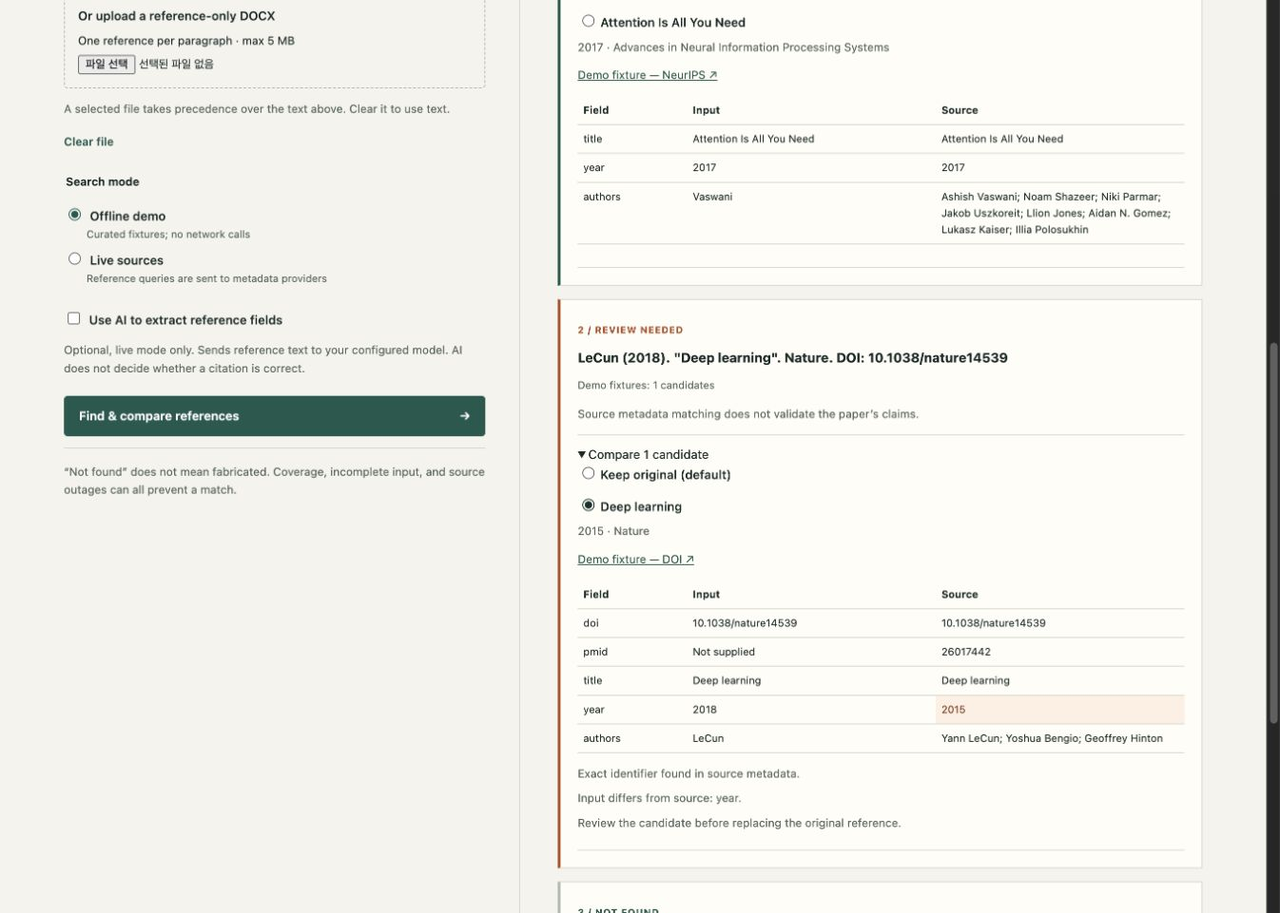
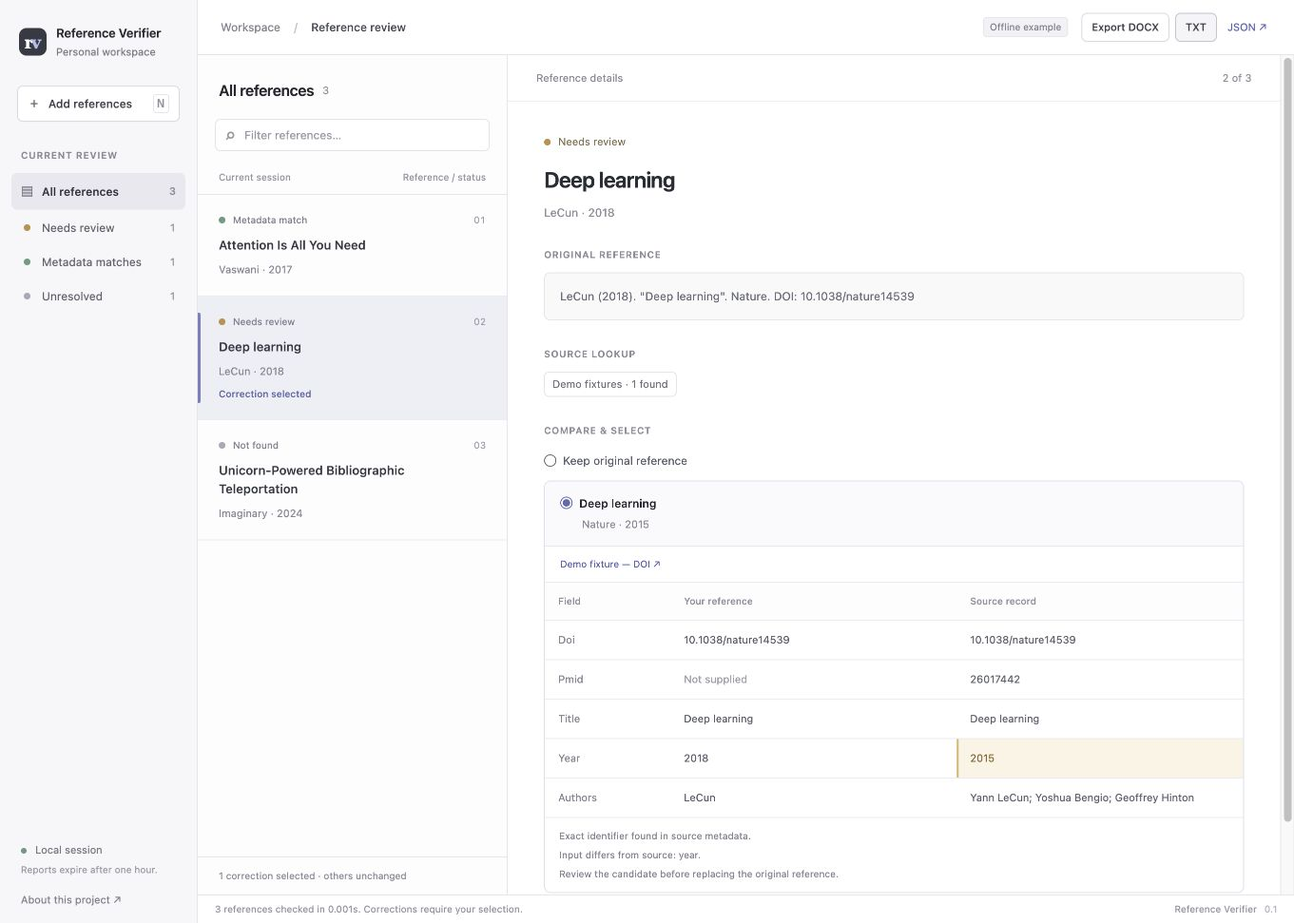
Redesign inherited reference workflow as a light visual review workspace
Continue the earlier infolumi-reference-search project with a three-pane review UI, status filters, and focused metadata comparison. Clarify the retained project history and distinguish the previous retrieval extensions from this visual refresh.

diff --git a/reference_verifier/web/style.css b/reference_verifier/web/style.css
@@ -1,1 +1,1 @@
-:root{--ink:#172f2c;--muted:#61716a;--paper:#f6f5ef;--line:#d9ded4;--accent:#1b6557;--orange:#b95932}*{box-sizing:border-box}body{margin:0;background:var(--paper);color:var(--ink);font-family:system-ui,-apple-system,BlinkMacSystemFont,"Segoe UI",sans-serif;font-size:15px;line-height:1.6}header,main,footer{max-width:1420px;margin:auto;padding:24px 5vw}header{display:flex;justify-content:space-between;align-items:center;border-bottom:1px solid var(--line)}a{color:var(--accent)}.brand{display:flex;gap:14px;align-items:center;font-weight:650;text-decoration:none}.mark{background:var(--ink);color:white;padding:5px 12px;font-family:Georgia,serif;font-size:22px}.tag,.eyebrow,.steps{font-size:11px;letter-spacing:.09em;text-transform:uppercase}.tag{padding:5px 10px;border:1px solid var(--line);border-radius:3px}.hero{padding:34px 0 36px}.eyebrow{color:var(--accent);font-weight:650}h1{font-family:Georgia,serif;font-weight:400;font-size:clamp(38px,4.6vw,66px);line-height:1.07;letter-spacing:-.04em;margin:18px 0}.intro{max-width:680px;color:var(--muted);font-size:17px}.steps{display:flex;gap:30px;margin-top:28px;color:var(--muted)}.workspace{display:grid;grid-template-columns:minmax(300px,.85fr) minmax(400px,1.2fr);border-top:1px solid var(--line);gap:40px}.input-panel,.results-panel{padding-top:20px}.input-panel{border-right:1px solid var(--line);padding-right:36px}.section-heading{display:flex;justify-content:space-between;align-items:center;gap:12px;margin-bottom:18px}h2{font-size:18px;font-weight:600;margin:0}h3{line-height:1.35}label{display:block;font-size:13px;font-weight:550}textarea{margin:8px 0 16px;width:100%;resize:vertical;border:1px solid #b6c4b8;background:#fffdf8;border-radius:5px;padding:15px;font:14px/1.65 system-ui;color:var(--ink)}button{font:inherit;font-size:13px;font-weight:600;border:1px solid #bdc8be;border-radius:4px;background:transparent;color:var(--ink);padding:10px 15px;cursor:pointer}.primary{background:var(--accent);color:white;border-color:var(--accent)}button:disabled{opacity:.5;cursor:wait}button:focus-visible,a:focus-visible,input:focus-visible,textarea:focus-visible{outline:3px solid #b95932;outline-offset:3px}.text-button{padding:0;border:0;color:var(--accent);font-size:12px}.upload{padding:14px;border:1px dashed #b6c4b8;border-radius:4px}.upload span,.upload input{display:block;font-weight:400;font-size:12px;margin-top:6px}.muted,.footnote{font-size:12px;color:var(--muted)}fieldset{margin:22px 0 16px;border:0;padding:0}legend{font-size:12px;font-weight:650;margin-bottom:8px}.radio{margin:8px 0}.radio small{display:block;padding-left:24px;font-weight:400;color:var(--muted)}input[type=radio],input[type=checkbox]{accent-color:var(--accent);margin-right:6px}.ai{margin-top:14px}#check{display:flex;justify-content:space-between;width:100%;margin-top:20px}.footnote{border-top:1px solid var(--line);padding-top:15px}.empty{border:1px solid var(--line);padding:46px 30px;margin-top:20px;text-align:center;color:var(--muted)}.large-mark{font-family:Georgia,serif;font-size:54px;color:var(--accent)}#feedback{font-size:13px;color:var(--muted)}.summary{display:flex;gap:8px;flex-wrap:wrap;margin-bottom:20px}.summary span{font-size:12px;padding:5px 9px;background:#e7ece2;border-radius:3px}.result{background:#fffdf8;border:1px solid var(--line);border-left:3px solid #b7c2b5;margin:14px 0;padding:18px}.result.matched{border-left-color:var(--accent)}.result.needs_review{border-left-color:var(--orange)}.result h3{font-size:14px;margin:10px 0;overflow-wrap:anywhere}.badge{font-size:10px;text-transform:uppercase;letter-spacing:.07em;color:var(--accent);font-weight:700}.result.needs_review .badge{color:var(--orange)}.source-status{font-size:11px;color:var(--muted)}details{border-top:1px solid var(--line);margin-top:12px;padding-top:10px}summary{font-size:13px;cursor:pointer}.candidate{padding:12px 0;border-bottom:1px solid var(--line)}.candidate>label{line-height:1.45}.candidate a{font-size:12px;margin-right:12px}.candidate p{font-size:12px;margin:7px 0;color:var(--muted)}table{border-collapse:collapse;font-size:11px;width:100%;margin:12px 0;table-layout:fixed}td,th{text-align:left;border-bottom:1px solid var(--line);padding:6px;overflow-wrap:anywhere;vertical-align:top}th:first-child{width:18%}td.different{background:#fff0e6;color:#8c3c20}#exports{padding:18px 0;border-top:1px solid var(--line)}.export-actions{display:flex;align-items:center;gap:12px;flex-wrap:wrap}.export-actions a{font-size:12px}footer{display:flex;justify-content:space-between;border-top:1px solid var(--line);margin-top:38px;font-size:11px;color:var(--muted)}[hidden]{display:none!important}@media(max-width:800px){.workspace{grid-template-columns:1fr;gap:20px}.input-panel{border-right:0;padding-right:0}.hero{padding-top:20px}.steps{gap:12px;font-size:9px}header .tag{display:none}footer{gap:20px}.results-panel{border-top:1px solid var(--line)}}
+:root{color-scheme:light;--ink:#292b31;--muted:#82848c;--line:#e9e9ed;--accent:#6069b8;--soft:#f0f0f9;--sidebar:#f8f8fa;--amber:#a46d20;--green:#37846c}*{box-sizing:border-box}body{margin:0;font:13px/1.5 -apple-system,BlinkMacSystemFont,"Segoe UI",sans-serif;color:var(--ink);background:white}button,input,textarea{font:inherit}button,a,input,textarea{ -webkit-tap-highlight-color:transparent}button{cursor:pointer;border:1px solid #dddfe5;border-radius:6px;background:white;color:#454750;padding:6px 10px;font-weight:500;box-shadow:0 1px 2px #25253505}button:hover{background:#f6f6f9;border-color:#c9cbd5}button:disabled{opacity:.5;cursor:wait}button:focus-visible,a:focus-visible,input:focus-visible,textarea:focus-visible,summary:focus-visible{outline:2px solid #7d83cc;outline-offset:3px}a{color:var(--accent);text-decoration:none}a:hover{text-decoration:underline}h1,h2,h3,p{margin:0}h1{font-size:16px;font-weight:600;letter-spacing:-.35px}h2{font-size:20px;font-weight:600;letter-spacing:-.5px}.app-shell{display:grid;grid-template-columns:208px minmax(0,1fr);height:100dvh;min-height:520px}.sidebar{background:var(--sidebar);border-right:1px solid var(--line);padding:25px 12px 16px;display:flex;flex-direction:column}.brand{display:flex;align-items:center;gap:10px;padding:0 8px;color:var(--ink);font-size:13px;font-weight:600;letter-spacing:-.2px}.brand:hover{text-decoration:none}.brand small{display:block;color:var(--muted);font-weight:400;font-size:11px;letter-spacing:0;margin-top:2px}.brand-icon{display:flex;align-items:center;justify-content:center;width:29px;height:29px;background:#3e424d;border-radius:8px;color:#fff;font-family:Georgia,serif;font-size:19px;letter-spacing:-3px;padding-right:3px}.brand-icon span{color:#bfc4f0}.new-list{display:flex;align-items:center;gap:8px;margin:27px 6px 28px;text-align:left;font-size:12px}.new-list>span{font-size:16px;color:#7a7d87}kbd{margin-left:auto;font:10px inherit;color:#989aa3;border:1px solid var(--line);border-radius:3px;padding:0 4px}.nav-caption{font-size:10px;letter-spacing:.07em;color:#94969f;font-weight:600;margin:0 10px 9px}.nav-item{width:100%;display:flex;align-items:center;gap:9px;background:none;border:0;box-shadow:none;padding:8px 10px;text-align:left;font-size:12px;margin:2px 0;color:#686b76;font-weight:400}.nav-item.active{background:#ebebf1;color:#353841;font-weight:550}.nav-item:hover{background:#eeeef3}.nav-count{margin-left:auto;font-size:11px;font-variant-numeric:tabular-nums;color:#9698a1}.nav-symbol{font-size:15px;width:13px;color:#6f7280}.status-dot{width:7px;height:7px;border-radius:50%;display:inline-block;flex:none;background:#b5b7c0}.nav-item .status-dot{margin:0 3px}.status-dot.needs_review{background:#c59b55}.status-dot.matched{background:#72a68f}.status-dot.unresolved,.status-dot.not_found,.status-dot.incomplete_search{background:#b0b3be}.sidebar-bottom{margin-top:auto;padding:20px 10px 0;color:#7f828c;font-size:11px}.local-dot{display:inline-block;width:6px;height:6px;background:#78a18c;border-radius:50%;margin-right:6px}.sidebar-bottom small{display:block;margin:5px 0 16px;font-size:10px;color:#a1a2aa}.sidebar-bottom a{color:#888a94}.main-shell{display:flex;flex-direction:column;min-width:0;min-height:0}.toolbar{height:58px;flex-shrink:0;display:flex;align-items:center;border-bottom:1px solid var(--line);padding:0 24px;gap:14px}.breadcrumb{font-size:12px;color:#8b8d96;white-space:nowrap}.breadcrumb span{margin:0 11px;color:#c5c6cc}.breadcrumb strong{font-weight:500;color:#525560}.mode-tag{font-size:10px;background:#f4f4f7;border:1px solid #e9e9ee;padding:2px 6px;border-radius:4px;color:#8a8c97;margin-left:auto;white-space:nowrap}#exports{display:flex;align-items:center;gap:6px}#exports button,#exports a{font-size:11px}#exports a{padding:5px}.review-workspace{display:grid;grid-template-columns:326px minmax(0,1fr);flex:1;min-height:0}.list-panel{border-right:1px solid var(--line);display:flex;flex-direction:column;min-height:0;background:#fdfdfe}.list-heading{display:flex;align-items:center;padding:25px 22px 18px;gap:9px}#list-total{font-size:11px;color:#9b9da6}.search-wrap{display:flex;align-items:center;margin:0 18px 20px;gap:7px;padding:5px 9px;border:1px solid #e6e7ec;border-radius:6px;background:#fff;color:#a1a3ac}.search-wrap span{font-size:20px;line-height:1}#search{background:none;border:0;outline-offset:5px;min-width:0;width:100%;font-size:12px;padding:2px}#search::placeholder{color:#a2a4ad}.list-subheading{padding:0 22px 10px;display:flex;justify-content:space-between;font-size:10px;color:#9b9da7;border-bottom:1px solid var(--line)}#reference-list{overflow:auto;flex:1}.reference-row{display:block;text-align:left;width:100%;border:0;border-radius:0;box-shadow:none;border-bottom:1px solid #eeeeF2;padding:19px 22px;background:transparent;position:relative}.reference-row:hover{background:#f7f7fa}.reference-row.selected{background:#f0f0f7}.reference-row.selected:before{position:absolute;content:"";left:0;top:17px;bottom:17px;width:3px;background:#858bc7;border-radius:0 2px 2px 0}.row-top{display:flex;gap:8px;align-items:center;margin-bottom:9px;font-size:10px;color:#858895;font-weight:400}.row-top .row-num{margin-left:auto;color:#a8a9b1;font-variant-numeric:tabular-nums}.row-title{font-size:13px;line-height:1.5;font-weight:550;color:#3d404b;display:-webkit-box;-webkit-line-clamp:3;-webkit-box-orient:vertical;overflow:hidden}.row-meta{margin-top:8px;font-size:11px;color:#8f919b;font-weight:400}.row-selected{font-size:10px;margin-top:8px;color:#656eae}.list-empty{padding:32px 23px;color:#a0a2ad;font-size:12px}.list-footer{padding:12px 22px;border-top:1px solid var(--line);font-size:10px;color:#91939e}.detail-panel{overflow:auto;min-width:0}.detail-toolbar{height:49px;border-bottom:1px solid #f0f0f3;display:flex;align-items:center;justify-content:space-between;padding:0 30px;color:#9597a1;font-size:11px}#position{font-variant-numeric:tabular-nums}.detail-content{max-width:890px;margin:auto;padding:34px 38px 45px}.detail-status{display:flex;align-items:center;gap:8px;font-size:11px;color:#8c7b5a;margin-bottom:16px}.detail-title{font-size:23px;line-height:1.35;letter-spacing:-.55px;color:#30333d;font-weight:600;overflow-wrap:anywhere}.detail-meta{color:#9699a3;font-size:12px;margin-top:10px}.section-label{font-size:10px;letter-spacing:.06em;font-weight:600;color:#9698a2;margin:28px 0 11px}.original{padding:14px 16px;border:1px solid #e9e9ee;border-radius:6px;background:#fafafb;color:#747783;font-size:12px;line-height:1.7;overflow-wrap:anywhere}.sources{display:flex;gap:8px;flex-wrap:wrap}.source-pill{font-size:11px;border:1px solid #e7e8ed;border-radius:5px;padding:4px 8px;color:#787d88}.source-pill.unavailable{color:#a16d31;background:#fcf7ef}.candidate{border:1px solid #e3e4ec;border-radius:7px;margin-top:12px;overflow:hidden}.candidate-heading{background:#fbfbfd;padding:14px 16px;border-bottom:1px solid #e9e9f0}.candidate-heading label{font-size:12px;font-weight:550;display:flex;gap:7px;align-items:flex-start}.candidate-heading p{font-size:11px;color:#9395a1;margin:5px 0 0 23px}.source-links{display:flex;flex-wrap:wrap;gap:12px;padding:11px 16px;border-bottom:1px solid #ededf2;font-size:10px}.table-scroll{overflow:auto}table{width:100%;table-layout:fixed;border-collapse:collapse;font-size:11px}th{font-size:10px;font-weight:500;color:#979aa5;background:#fdfdfe}th,td{padding:12px 14px;text-align:left;vertical-align:top;border-bottom:1px solid #eeeef3;overflow-wrap:anywhere}th:first-child{width:18%}td:first-child{color:#8c8f9b;text-transform:capitalize}td{color:#626672}td.different{background:#fcf5e9;color:#916c2f;box-shadow:inset 2px 0 #dfbc79}td.missing{color:#a5a7b0}.candidate-notes{padding:11px 15px;color:#8c8f9a;font-size:10px;line-height:1.6}.candidate-notes p+p{margin-top:4px}.keep-original{display:flex;align-items:center;gap:7px;font-size:12px;color:#656977;margin:15px 0 8px}.review-note{font-size:11px;color:#9a9ca6;line-height:1.7;margin-top:18px}.unresolved-note{margin-top:20px;border:1px solid #e7e8ed;border-radius:6px;padding:18px;color:#81848f;font-size:12px}.statusbar{height:30px;flex-shrink:0;display:flex;justify-content:space-between;align-items:center;padding:0 18px;border-top:1px solid var(--line);font-size:10px;color:#9b9da7;gap:20px}#feedback{overflow:hidden;white-space:nowrap;text-overflow:ellipsis}.version{color:#b8bac2;margin-left:5px}.welcome{max-width:430px;margin:110px auto;padding:0 30px;text-align:center}.document-icon{border:1px solid #e0e2eb;border-radius:8px;width:40px;height:47px;font-size:28px;margin:0 auto 25px;color:#a7abc2;background:#fafafd;line-height:43px}.welcome h2{font-size:19px}.welcome p{font-size:12px;color:#9598a4;line-height:1.8;margin:12px 0 23px}.welcome-actions{display:flex;justify-content:center;gap:8px}.welcome .small-note{font-size:10px;color:#b0b2bc}.primary{background:#656db3;border-color:#6068aa;color:#fff}.primary:hover{background:#585fa5;border-color:#51599e}input[type=radio],input[type=checkbox]{accent-color:#6d75b6;margin:2px 0;flex:none}dialog{width:min(580px,calc(100vw - 32px));border:1px solid #dbdde7;border-radius:12px;padding:0;color:var(--ink);box-shadow:0 24px 100px #20243a25}dialog::backdrop{background:#24293a30;backdrop-filter:blur(2px)}.dialog-heading{display:flex;justify-content:space-between;padding:25px 26px 18px}.dialog-heading h2{font-size:18px}.dialog-heading p{font-size:12px;color:#9699a4;margin-top:5px}.icon-button{border:0;background:none;box-shadow:none;font-size:23px;color:#9598a2;align-self:flex-start;padding:0 3px}form{padding:0 26px}form>label{font-size:12px;color:#666a77;display:block}.label-hint{float:right;color:#a6a8b2;font-size:10px}textarea{width:100%;resize:vertical;margin:8px 0 12px;padding:12px;border:1px solid #dfe1e9;border-radius:6px;font-size:12px;line-height:1.6;color:#585c6b;background:#fdfdfe}.upload-row{display:flex;align-items:center;justify-content:space-between;font-size:11px}.upload-row input{display:block;margin-top:6px;font-size:10px;max-width:100%}.text-button{border:0;box-shadow:none;background:none;font-size:10px;color:#8388ad}.muted{color:#a0a2ad;font-size:10px;margin:7px 0 14px;line-height:1.5}fieldset{border:0;border-top:1px solid var(--line);padding:12px 0;margin:18px 0 6px;display:flex;gap:20px}legend{font-size:11px;color:#767a88;padding-right:8px}.radio{font-size:11px}.radio small{font-size:10px;display:block;color:#a0a3ae;margin:4px 0 0 17px}.ai{display:flex;align-items:center;gap:7px;font-size:11px}.dialog-footer{margin:20px -26px 0;padding:15px 26px;border-top:1px solid var(--line);display:flex;align-items:center;justify-content:space-between;background:#fafafb}.dialog-footer span{font-size:10px;color:#a0a3ae}#import-error{font-size:12px;color:#a34b44}[hidden]{display:none!important}@media(min-width:1500px){.review-workspace{grid-template-columns:370px minmax(0,1fr)}.detail-content{padding-top:44px}}@media(max-width:1100px){.app-shell{grid-template-columns:180px minmax(0,1fr)}.review-workspace{grid-template-columns:270px minmax(0,1fr)}.detail-content{padding:25px 22px}.toolbar{padding:0 16px}.brand{font-size:11px;gap:7px}.breadcrumb{font-size:11px}}@media(max-width:800px){.app-shell{display:block;height:auto;min-height:100dvh}.sidebar{padding:14px;display:block;border-right:0;border-bottom:1px solid var(--line)}.brand{font-size:13px}.brand small,.sidebar-bottom,.nav-caption,kbd{display:none}.new-list{position:absolute;right:14px;top:14px;margin:0}.sidebar nav{display:flex;margin-top:15px;overflow:auto}.nav-item{width:auto;white-space:nowrap;padding:6px 9px}.nav-count{margin-left:3px}.main-shell{min-height:80dvh}.toolbar{height:auto;min-height:54px;flex-wrap:wrap;padding:10px 14px;gap:8px}.breadcrumb{margin-right:auto}.mode-tag{margin:0}.review-workspace{display:block}.list-panel{border-right:0;border-bottom:1px solid var(--line)}.list-heading{padding:16px 18px 12px}.search-wrap{margin-bottom:12px}.list-subheading{display:none}#reference-list{max-height:250px}.reference-row{padding:12px 20px}.row-top{margin-bottom:4px}.row-meta{margin-top:4px}.row-title{-webkit-line-clamp:2}.detail-content{padding:24px 20px}.detail-toolbar{padding:0 20px}.statusbar{margin-top:auto}.statusbar>span:last-child{display:none}.welcome{margin:55px auto}.detail-title{font-size:21px}fieldset{flex-direction:column;gap:10px}}

diff --git a/reference_verifier/web/app.js b/reference_verifier/web/app.js
@@ -1,37 +1,61 @@
 const $ = id => document.getElementById(id);
-let report = null;
+let report = null, activeIndex = null, filter = 'all', busy = false;
 const choices = {};
-const labels = {matched:'Metadata match',needs_review:'Review needed',not_found:'Not found',incomplete_search:'Search incomplete'};
+const labels = {matched:'Metadata match',needs_review:'Needs review',not_found:'Not found',incomplete_search:'Search incomplete'};
 function el(tag,text,cls){const n=document.createElement(tag);if(text!==undefined)n.textContent=text;if(cls)n.className=cls;return n;}
-function count(){ $('selection-count').textContent=`${Object.keys(choices).length} corrections selected. Other entries stay unchanged.`; }
 function safeLink(url,label){try{const u=new URL(url);if(u.protocol!=='https:')return el('span',label);const a=el('a',label);a.href=u.href;a.target='_blank';a.rel='noopener noreferrer';return a;}catch{return el('span',label);}}
-function render(data){
-  report=data;for(const k of Object.keys(choices))delete choices[k];count();$('results').replaceChildren();$('summary').replaceChildren();
-  $('mode-tag').textContent=data.mode==='demo'?'Offline fixtures':'Live metadata';
-  for(const [key,n] of Object.entries(data.summary))if(n)$('summary').append(el('span',`${n} ${labels[key]}`));
-  for(const row of data.results){
-    const card=el('article',undefined,`result ${row.status}`);card.append(el('span',`${row.index+1} / ${labels[row.status]}`,'badge'),el('h3',row.input.raw));
-    card.append(el('p',row.sources.map(s=>`${s.name}: ${s.state==='ok'?`${s.count} candidates`:'unavailable'}`).join(' · '),'source-status'));
-    for(const w of row.input.warnings)card.append(el('p',w,'muted'));
-    card.append(el('p',row.note,'muted'));
-    if(row.candidates.length){
-      const details=el('details');details.open=true;details.append(el('summary',`Compare ${row.candidates.length} candidate${row.candidates.length===1?'':'s'}`));
-      const keep=el('label','Keep original (default)');const none=el('input');none.type='radio';none.name=`row-${row.index}`;none.checked=true;none.onchange=()=>{delete choices[row.index];count();};keep.prepend(none);details.append(keep);
-      for(const candidate of row.candidates){const c=el('div',undefined,'candidate');const lab=el('label',candidate.record.title);const radio=el('input');radio.type='radio';radio.name=`row-${row.index}`;radio.onchange=()=>{choices[row.index]=candidate.id;count();};lab.prepend(radio);c.append(lab);
-        c.append(el('p',`${candidate.record.year||'Year unavailable'} · ${candidate.record.venue||'Venue unavailable'}`));
-        for(const s of candidate.record.sources)c.append(safeLink(s.url,s.name+' ↗'));
-        const table=el('table');const head=el('tr');for(const t of ['Field','Input','Source'])head.append(el('th',t));const thead=el('thead');thead.append(head);table.append(thead);const body=el('tbody');
-        for(const d of candidate.differences){if(d.state==='not_supplied'&&!d.candidate)continue;const tr=el('tr');tr.append(el('td',d.field),el('td',d.input||'Not supplied'),el('td',d.candidate||'Unavailable',d.state==='different'?'different':''));body.append(tr);}table.append(body);c.append(table);
-        for(const reason of [...candidate.reasons,...candidate.record.conflicts])c.append(el('p',reason));details.append(c);
-      }card.append(details);
-    }$('results').append(card);
-  }
-  $('exports').hidden=false;$('report').href=`/api/report/${data.id}`;$('feedback').textContent=`Checked ${data.results.length} references in ${data.elapsed_seconds}s. Review and explicitly select any corrections.`;
+function count(){const n=Object.keys(choices).length;$('selection-count').textContent=`${n} correction${n===1?'':'s'} selected · others unchanged`;}
+function filteredRows(){const query=$('search').value.trim().toLowerCase();return (report?.results||[]).filter(row=>(filter==='all'||row.status===filter||(filter==='unresolved'&&['not_found','incomplete_search'].includes(row.status)))&&row.input.raw.toLowerCase().includes(query));}
+function renderList(){
+ const rows=filteredRows();$('reference-list').replaceChildren();$('list-total').textContent=rows.length;
+ if(!rows.some(r=>r.index===activeIndex))activeIndex=rows[0]?.index??null;
+ for(const row of rows){
+  const b=el('button',undefined,'reference-row'+(row.index===activeIndex?' selected':''));b.type='button';b.setAttribute('aria-pressed',String(row.index===activeIndex));
+  const top=el('div',undefined,'row-top');top.append(el('span',undefined,'status-dot '+row.status),el('span',labels[row.status]),el('span',String(row.index+1).padStart(2,'0'),'row-num'));
+  b.append(top,el('div',row.input.title||row.input.raw,'row-title'),el('div',[row.input.authors.join(', '),row.input.year].filter(Boolean).join(' · ')||'Bibliographic details unavailable','row-meta'));
+  if(choices[row.index]!==undefined)b.append(el('div','Correction selected','row-selected'));
+  b.onclick=()=>{activeIndex=row.index;renderList();renderDetail();};$('reference-list').append(b);
+ }
+ if(!rows.length)$('reference-list').append(el('div','No references in this view.','list-empty'));
 }
-$('sample').onclick=async()=>{try{const r=await fetch('/api/demo');$('references').value=(await r.json()).text;$('file').value='';}catch{$('feedback').textContent='Could not load example.';}};
+function renderDetail(){
+ const row=report?.results.find(r=>r.index===activeIndex);$('results').replaceChildren();$('position').textContent=row?`${row.index+1} of ${report.results.length}`:'';
+ if(!row){$('results').append(el('div','Select a reference from the list to inspect its metadata.','list-empty'));return;}
+ const page=el('article',undefined,'detail-content');const badge=el('div',undefined,'detail-status');badge.append(el('span',undefined,'status-dot '+row.status),el('span',labels[row.status]));
+ page.append(badge,el('h2',row.input.title||'Untitled reference','detail-title'),el('p',[row.input.authors.join(', '),row.input.year].filter(Boolean).join(' · ')||'Review the original reference below.','detail-meta'));
+ page.append(el('h3','ORIGINAL REFERENCE','section-label'),el('p',row.input.raw,'original'),el('h3','SOURCE LOOKUP','section-label'));
+ const sources=el('div',undefined,'sources');for(const s of row.sources)sources.append(el('span',`${s.name} · ${s.state==='ok'?s.count+' found':'unavailable'}`,'source-pill '+s.state));page.append(sources);
+ for(const warning of row.input.warnings)page.append(el('p',warning,'review-note'));
+ if(row.candidates.length){
+  page.append(el('h3','COMPARE & SELECT','section-label'));
+  const keep=el('label',undefined,'keep-original');const none=el('input');none.type='radio';none.name=`row-${row.index}`;none.checked=choices[row.index]===undefined;none.onchange=()=>{delete choices[row.index];count();renderList();};keep.append(none,el('span','Keep original reference'));page.append(keep);
+  for(const candidate of row.candidates){
+   const c=el('div',undefined,'candidate'),heading=el('div',undefined,'candidate-heading'),label=el('label'),radio=el('input');radio.type='radio';radio.name=`row-${row.index}`;radio.checked=choices[row.index]===candidate.id;radio.onchange=()=>{choices[row.index]=candidate.id;count();renderList();};label.append(radio,el('span',candidate.record.title));heading.append(label,el('p',[candidate.record.venue,candidate.record.year].filter(Boolean).join(' · ')));c.append(heading);
+   const links=el('div',undefined,'source-links');for(const s of candidate.record.sources)links.append(safeLink(s.url,s.name+' ↗'));c.append(links);
+   const wrap=el('div',undefined,'table-scroll'),table=el('table'),thead=el('thead'),head=el('tr');for(const t of ['Field','Your reference','Source record'])head.append(el('th',t));thead.append(head);table.append(thead);const body=el('tbody');
+   for(const d of candidate.differences){if(d.state==='not_supplied'&&!d.candidate)continue;const tr=el('tr');tr.append(el('td',d.field),el('td',d.input||'Not supplied',d.input?'':'missing'),el('td',d.candidate||'Unavailable',d.state==='different'?'different':d.candidate?'':'missing'));body.append(tr);}table.append(body);wrap.append(table);c.append(wrap);
+   const notes=el('div',undefined,'candidate-notes');for(const reason of [...candidate.reasons,...candidate.record.conflicts])notes.append(el('p',reason));c.append(notes);page.append(c);
+  }
+ }else page.append(el('p','No candidate is available to compare. Try a fuller title or a DOI, or retry live lookup if a source is unavailable.','unresolved-note'));
+ page.append(el('p',row.note,'review-note'));$('results').append(page);
+}
+function render(data){
+ report=data;for(const k of Object.keys(choices))delete choices[k];activeIndex=data.results.find(r=>r.status==='needs_review')?.index??data.results[0]?.index;filter='all';$('search').value='';
+ $('count-all').textContent=data.results.length;for(const key of ['matched','needs_review'])$('count-'+key).textContent=data.summary[key];$('count-unresolved').textContent=data.summary.not_found+data.summary.incomplete_search;
+ $('mode-tag').textContent=data.mode==='demo'?'Offline example':'Live metadata';$('exports').hidden=false;$('report').href=`/api/report/${data.id}`;
+ setFilter('all');count();$('feedback').textContent=`${data.results.length} references checked in ${data.elapsed_seconds}s. Corrections require your selection.`;
+}
+function setFilter(value){filter=value;const names={all:'All references',needs_review:'Needs review',matched:'Metadata matches',unresolved:'Unresolved'};$('list-title').textContent=names[value];document.querySelectorAll('[data-filter]').forEach(b=>{b.classList.toggle('active',b.dataset.filter===value);b.setAttribute('aria-pressed',String(b.dataset.filter===value));});renderList();renderDetail();}
+function openImport(){if(!$('import-dialog').open)$('import-dialog').showModal();}
+$('new-list').onclick=openImport;$('start').onclick=openImport;$('close-dialog').onclick=()=>$('import-dialog').close();
+$('search').oninput=()=>{renderList();renderDetail();};document.querySelectorAll('[data-filter]').forEach(b=>b.onclick=()=>setFilter(b.dataset.filter));
+document.addEventListener('keydown',e=>{if(e.key.toLowerCase()==='n'&&!e.ctrlKey&&!e.metaKey&&!e.altKey&&!['INPUT','TEXTAREA','SELECT'].includes(document.activeElement.tagName)&&!$('import-dialog').open){e.preventDefault();openImport();}});
+$('sample').onclick=async()=>{try{const r=await fetch('/api/demo');if(!r.ok)throw new Error('Could not load example.');$('references').value=(await r.json()).text;$('file').value='';document.querySelector('input[name="mode"][value="demo"]').checked=true;$('ai').checked=false;await runCheck();}catch(err){$('feedback').textContent=err.message;}};
 $('clear-file').onclick=()=>{$('file').value='';};
-$('check-form').onsubmit=async e=>{e.preventDefault();$('check').disabled=true;$('exports').hidden=true;report=null;$('feedback').textContent='Looking up sources… Live lookups may take a minute or more for a list. Provider failures will be shown.';
-  try{const form=new FormData(e.target);form.set('ai',$('ai').checked?'true':'false');const response=await fetch('/api/check',{method:'POST',body:form});const data=await response.json();if(!response.ok)throw new Error(typeof data.detail==='string'?data.detail:'Request failed');render(data);}catch(err){$('feedback').textContent=err.message;$('results').replaceChildren();$('summary').replaceChildren();}finally{$('check').disabled=false;}
-};
+async function runCheck(){
+ if(busy)return;busy=true;$('check').disabled=true;if($('sample'))$('sample').disabled=true;$('import-error').textContent='';$('feedback').textContent='Checking references… Live source lookups may take a minute or more.';
+ try{const form=new FormData($('check-form'));form.set('ai',$('ai').checked?'true':'false');const response=await fetch('/api/check',{method:'POST',body:form});const data=await response.json();if(!response.ok)throw new Error(typeof data.detail==='string'?data.detail:'Request failed');render(data);$('import-dialog').close();}catch(err){$('feedback').textContent=err.message;$('import-error').textContent=err.message;}finally{busy=false;$('check').disabled=false;if($('sample'))$('sample').disabled=false;}
+}
+$('check-form').onsubmit=e=>{e.preventDefault();runCheck();};
 async function download(kind){if(!report)return;try{const r=await fetch('/api/export',{method:'POST',headers:{'Content-Type':'application/json'},body:JSON.stringify({report_id:report.id,selections:choices,format:kind})});if(!r.ok){const d=await r.json();throw new Error(d.detail||'Export failed');}const url=URL.createObjectURL(await r.blob());const a=el('a');a.href=url;a.download=`reviewed-references.${kind}`;a.click();setTimeout(()=>URL.revokeObjectURL(url),1000);}catch(e){$('feedback').textContent=e.message;}}
 $('docx').onclick=()=>download('docx');$('txt').onclick=()=>download('txt');

diff --git a/reference_verifier/web/index.html b/reference_verifier/web/index.html
@@ -1,12 +1,26 @@
 <!doctype html>
-<html lang="en"><head><meta charset="utf-8"><meta name="viewport" content="width=device-width,initial-scale=1"><title>Reference Verifier · Evidence before edits</title><link rel="stylesheet" href="/style.css"><script src="/app.js" defer></script></head>
-<body><header><a href="/" class="brand"><span class="mark">R/</span> Reference Verifier</a><span class="tag">Research tools · 01</span></header>
-<main><section class="hero"><p class="eyebrow">EVIDENCE BEFORE EDITS</p><h1>A reference is a claim.<br>Find its source.</h1><p class="intro">Look up citations across Crossref, OpenAlex, and PubMed. Compare the evidence, review the differences, and export only the changes you choose.</p><div class="steps"><span>01 / Add references</span><span>02 / Compare sources</span><span>03 / Choose corrections</span></div></section>
-<div class="workspace"><section class="input-panel"><div class="section-heading"><h2>Your reference list</h2><button type="button" id="sample" class="text-button">Load example ↗</button></div>
-<form id="check-form"><label for="references">One reference per line</label><textarea id="references" name="text" rows="9" placeholder='LeCun (2015). "Deep learning". Nature. DOI: 10.1038/nature14539'></textarea>
-<label class="upload" for="file">Or upload a reference-only DOCX <span>One reference per paragraph · max 5 MB</span><input id="file" type="file" name="file" accept=".docx"></label><p id="file-note" class="muted">A selected file takes precedence over the text above. Clear it to use text.</p><button type="button" id="clear-file" class="text-button">Clear file</button>
-<fieldset><legend>Search mode</legend><label class="radio"><input type="radio" name="mode" value="demo" checked> Offline demo <small>Curated fixtures; no network calls</small></label><label class="radio"><input type="radio" name="mode" value="live"> Live sources <small>Reference queries are sent to metadata providers</small></label></fieldset>
-<label class="ai"><input type="checkbox" id="ai" name="ai"> Use AI to extract reference fields</label><p class="muted">Optional, live mode only. Sends reference text to your configured model. AI does not decide whether a citation is correct.</p><button id="check" type="submit" class="primary">Find & compare references <span>→</span></button></form><p class="footnote">“Not found” does not mean fabricated. Coverage, incomplete input, and source outages can all prevent a match.</p></section>
-<section class="results-panel" aria-labelledby="results-title"><div class="section-heading"><h2 id="results-title">Evidence & review</h2><span id="mode-tag" class="tag">Awaiting input</span></div><p id="feedback" role="status" aria-live="polite">Start with the example to see a match, a year mismatch, and an unresolved reference.</p><div id="summary" class="summary"></div><div id="results"><div class="empty"><span class="large-mark">↗</span><h3>Sources, not guesses.</h3><p>Candidate records and field-by-field differences will appear here. Nothing is corrected automatically.</p></div></div>
-<div id="exports" hidden><p id="selection-count">0 corrections selected. Other entries stay unchanged.</p><div class="export-actions"><button id="docx" type="button" class="primary">Export DOCX</button><button id="txt" type="button">Export TXT</button><a id="report">Evidence JSON ↗</a></div><p class="muted">Reports stay in this local process for up to one hour. DOCX output is a new reference list; original document formatting is not retained.</p></div></section></div></main>
-<footer><span>Reference Verifier · v0.1</span><span>Human-reviewed corrections. Traceable metadata.</span></footer></body></html>
+<html lang="en"><head><meta charset="utf-8"><meta name="viewport" content="width=device-width,initial-scale=1"><title>Reference Verifier</title><link rel="stylesheet" href="/style.css"><script src="/app.js" defer></script></head>
+<body>
+<div class="app-shell">
+<aside class="sidebar" aria-label="Workspace">
+<a href="/" class="brand"><span class="brand-icon" aria-hidden="true">r<span>v</span></span><span>Reference Verifier<small>Personal workspace</small></span></a>
+<button id="new-list" class="new-list"><span aria-hidden="true">＋</span> Add references <kbd>N</kbd></button>
+<p class="nav-caption">CURRENT REVIEW</p>
+<nav id="filters" aria-label="Filter references">
+<button data-filter="all" class="nav-item active" aria-pressed="true"><span class="nav-symbol">▤</span> All references <span id="count-all" class="nav-count">0</span></button>
+<button data-filter="needs_review" class="nav-item" aria-pressed="false"><span class="status-dot needs_review"></span> Needs review <span id="count-needs_review" class="nav-count">0</span></button>
+<button data-filter="matched" class="nav-item" aria-pressed="false"><span class="status-dot matched"></span> Metadata matches <span id="count-matched" class="nav-count">0</span></button>
+<button data-filter="unresolved" class="nav-item" aria-pressed="false"><span class="status-dot unresolved"></span> Unresolved <span id="count-unresolved" class="nav-count">0</span></button>
+</nav>
+<div class="sidebar-bottom"><span class="local-dot"></span> Local session<small>Reports expire after one hour.</small><a href="https://github.com/juny116/reference-verifier" target="_blank" rel="noopener noreferrer">About this project ↗</a></div>
+</aside>
+<main class="main-shell">
+<header class="toolbar"><div class="breadcrumb">Workspace <span>/</span> <strong>Reference review</strong></div><span id="mode-tag" class="mode-tag">No active review</span><div id="exports" hidden><button id="docx">Export DOCX</button><button id="txt">TXT</button><a id="report">JSON ↗</a></div></header>
+<div class="review-workspace">
+<section class="list-panel" aria-labelledby="list-title"><div class="list-heading"><h1 id="list-title">All references</h1><span id="list-total">0</span></div><div class="search-wrap"><span aria-hidden="true">⌕</span><input id="search" type="search" placeholder="Filter references…" aria-label="Filter reference text"></div><div class="list-subheading"><span id="list-caption">Current session</span><span>Reference / status</span></div><div id="reference-list"><div class="list-empty">Your reference list will appear here.</div></div><div class="list-footer" id="selection-count">No corrections selected</div></section>
+<section class="detail-panel" aria-label="Reference details"><div id="detail-toolbar" class="detail-toolbar"><span>Reference details</span><span id="position"></span></div><div id="results"><div class="welcome"><div class="document-icon" aria-hidden="true">≡</div><h2>Start a reference review</h2><p>Add a reference list to compare its bibliographic details with Crossref, OpenAlex, and PubMed.</p><div class="welcome-actions"><button id="start" class="primary">Add references</button><button id="sample">Try an example</button></div><p class="small-note">You choose which corrections to keep.</p></div></div></section>
+</div>
+<footer class="statusbar"><span id="feedback" role="status" aria-live="polite">Ready</span><span>Reference Verifier <span class="version">0.1</span></span></footer>
+</main></div>
+<dialog id="import-dialog" aria-labelledby="import-title"><div class="dialog-heading"><div><h2 id="import-title">Add references</h2><p>Paste a list or import a reference-only document.</p></div><button id="close-dialog" class="icon-button" aria-label="Close import dialog">×</button></div><form id="check-form"><label for="references">References <span class="label-hint">One per line</span></label><textarea id="references" name="text" rows="7" placeholder='LeCun (2015). "Deep learning". Nature. DOI: 10.1038/nature14539'></textarea><div class="upload-row"><label for="file">Import DOCX <input id="file" type="file" name="file" accept=".docx"></label><button type="button" id="clear-file" class="text-button">Clear file</button></div><p class="muted">One reference per paragraph · max 5 MB. A selected file replaces the pasted input.</p><fieldset><legend>Sources</legend><label class="radio"><input type="radio" name="mode" value="demo" checked> Offline example <small>Fixed demo records; no network</small></label><label class="radio"><input type="radio" name="mode" value="live"> Live metadata <small>Search Crossref, OpenAlex, and PubMed</small></label></fieldset><label class="ai"><input type="checkbox" id="ai" name="ai"> Use AI to extract fields</label><p class="muted">Optional in live mode. Sends references to your configured model. Source metadata supplies the corrections.</p><p id="import-error" role="alert"></p><div class="dialog-footer"><span>Up to 30 references</span><button id="check" type="submit" class="primary">Check references</button></div></form></dialog>
+</body></html>

diff --git a/README.md b/README.md
@@ -1,6 +1,16 @@
 # Reference Verifier
 
-Find source-backed bibliographic candidates, inspect disagreements, and export only the corrections you choose.
+A visual reference-review workspace evolved from my earlier [infolumi-reference-search](https://github.com/juny116/infolumi-reference-search) project.
+
+The original project established the PubMed lookup and reference-processing workflow. Reference Verifier carries that work forward under a new name, with a redesigned interface for browsing references, comparing source metadata, and selecting corrections. The earlier Git history and legacy implementation are preserved; this repository is a continuation, not a project started from scratch.
+
+![Reference review workspace with a selected year correction](docs/demo.png)
+
+## What changed
+
+The latest update focuses on the visual review experience: a light three-pane workspace, status filters, a searchable reference list, and a dedicated metadata comparison panel. Import controls live in a dialog, while correction selections remain visible as you move between references.
+
+The migration to this repository also expanded the earlier PubMed-focused workflow with Crossref and OpenAlex adapters, optional constrained field extraction, and explicit-selection exports. These extensions are distinct from the latest interface redesign.
 
 Reference Verifier is a local research-writing assistant built around **retrieval and explicit evidence**. It searches Crossref, OpenAlex, and PubMed, compares titles, authors, years, DOIs and PMIDs, and keeps source links alongside each candidate. An optional language model extracts fields from messy references; it does not generate the replacement metadata or decide what is true.
 
@@ -15,11 +25,9 @@ pip install -e '.[test]'
 reference-verifier serve
 ```
 
-Open <http://127.0.0.1:8765>. Click **Load example**, then check references in **Offline demo** mode. No keys or network calls are needed for the demo. The three examples show a matching reference, a wrong publication year, and an unmatched fictional title.
+Open <http://127.0.0.1:8765>. Click **Try an example** to open an offline review. No keys or network calls are needed for the demo. The three examples show a matching reference, a wrong publication year, and an unmatched fictional title.
 
-Switch to live mode to query the three metadata services. Input a reference per line, or upload a reference-only DOCX with one reference per paragraph. Each candidate has field comparisons and source links. **Keep original** is selected by default; choose candidates explicitly before exporting TXT or DOCX. Download the JSON report to retain the full evidence and source failures.
-
-![Reviewing a wrong-year reference](docs/demo.png)
+Use **Add references** and select **Live metadata** to query the three metadata services. Input a reference per line, or upload a reference-only DOCX with one reference per paragraph. Each candidate has field comparisons and source links. **Keep original** is selected by default; choose candidates explicitly before exporting TXT or DOCX. Download the JSON report to retain the full evidence and source failures.
 
 ## CLI
 

diff --git a/docs/provenance.md b/docs/provenance.md
@@ -3,3 +3,7 @@
 This project continues Junyeob Kim's [infolumi-reference-search](https://github.com/juny116/infolumi-reference-search), retaining its Git history through `e1c7af5` and its legacy source files. The new product name is Reference Verifier. The original application focused on PubMed reference lookup; the new package introduces multiple metadata sources, explicit source disagreements, optional constrained AI extraction, and user-selected correction exports.
 
 The original README and dependency list are preserved as `legacy-readme.md` and `legacy-requirements.txt`. New development uses `reference_verifier/` and `tests_v2/`; old modules and tests are historical and may require different dependencies. No new license is asserted by this refactor.
+
+## Visual workspace update
+
+The latest revision redesigns the existing review flow into a light three-pane interface: status navigation, a searchable reference list, and a focused comparison panel. It keeps the verification engine and explicit-selection export behavior from the preceding migration. The new repository name and visual identity do not reset the project’s earlier development history.
